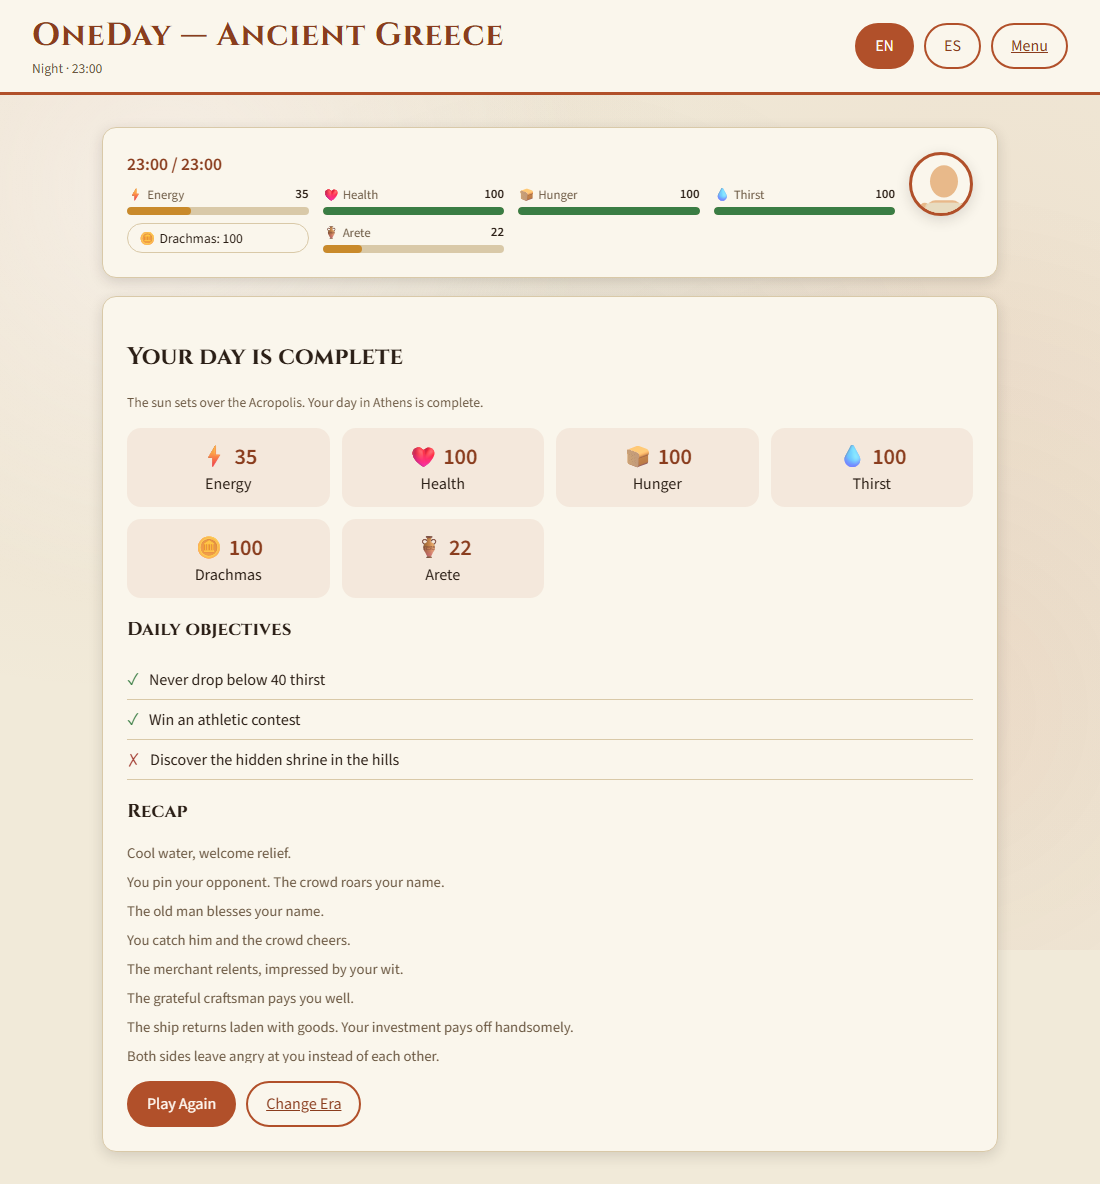
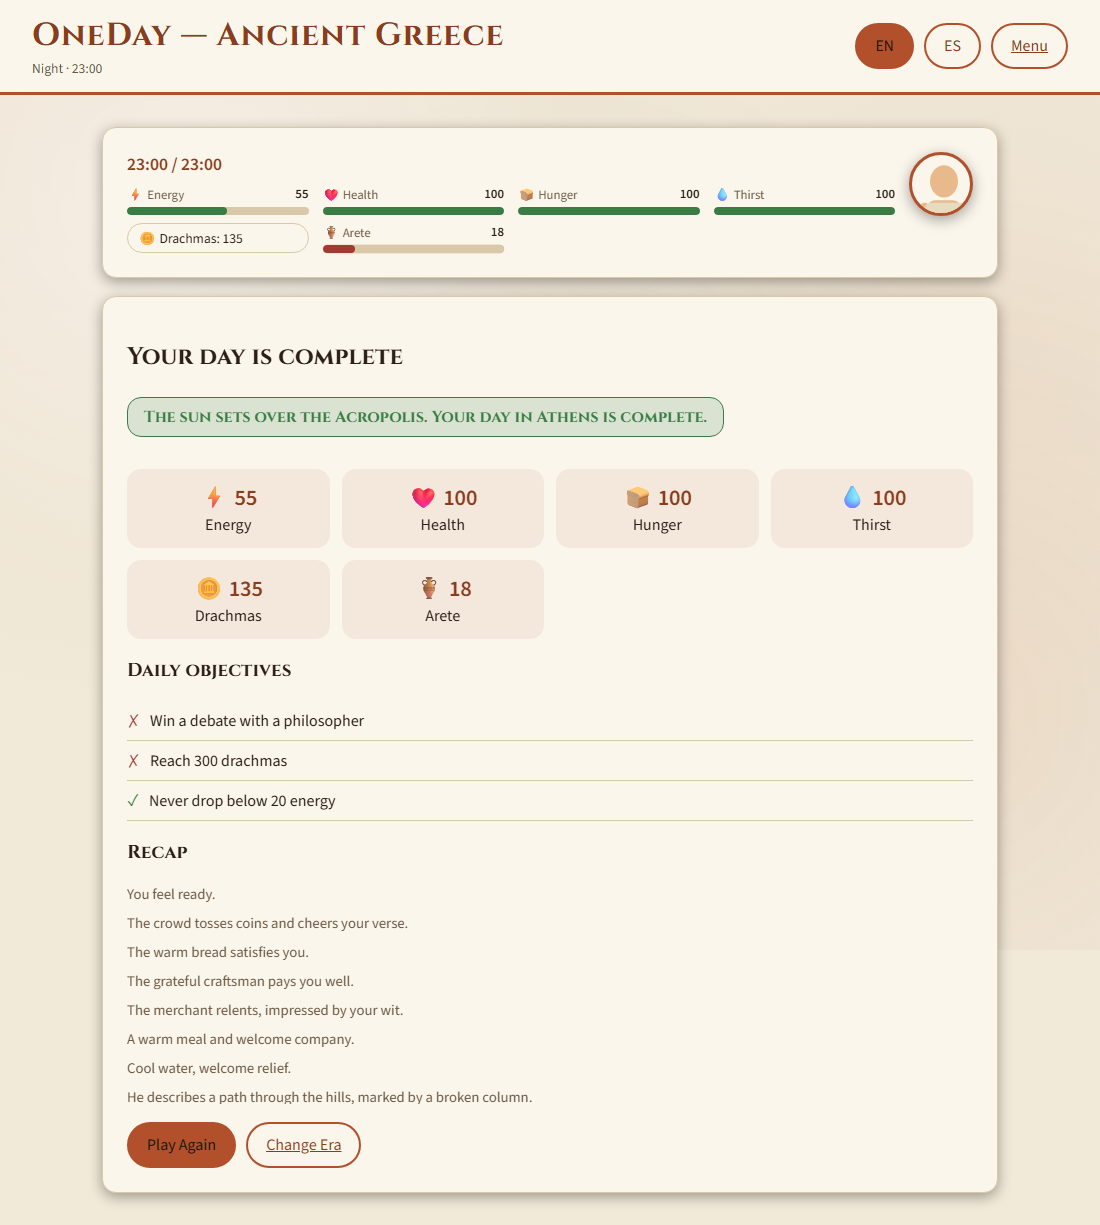
Fix home screen entrance perf, verify mobile, reward the summary screen
1. Entrance animation "looks broken" fix
The stagger/fade itself was never the problem (~120ms stagger, ~250ms
each, well under 400ms total) -- init() was awaiting all three eras'
theme-preview fetches before rendering the era grid AT ALL, so nothing
appeared until every fetch resolved. The grid now renders the instant
loadStrings() returns; each card's accent/texture preview fades in a
moment later via a new applyCardPreview() that updates that card's
custom properties in place, instead of re-rendering (and re-animating)
the whole grid a second time. Verified: ~200ms to first card, fully
settled well under 500ms, consistently across repeated runs.

2. Mobile
Checked all four screens (home, archetype, appearance, day loop) at a
390px/touch viewport. Everything already held up -- responsive grids,
flex-wrap, and the existing 640px character-layout breakpoint were
enough. No hover-dependent information: era cards already carry a
baseline accent glow, hover only intensifies it. No fixes needed here;
this item is a verification, not a change.

3. Summary screen reward treatment
It already inherited the active era's palette/fonts/texture for free
(applyEraTheme() runs once per game.html load), but had no sense of
payoff. Added: a bordered ending banner in success/danger colors
depending on which ending you got, in the era's own heading font, so
good vs. bad reads before you read a word; a staggered fade-in for
each objective in the checklist and for the final resource/score
[…]

diff --git a/game.html b/game.html
@@ -5,6 +5,7 @@
   <meta name="viewport" content="width=device-width, initial-scale=1.0">
   <meta name="description" content="OneDay: live one decisive day, one decision at a time.">
   <title>OneDay — Playing</title>
+  <link rel="icon" type="image/svg+xml" href="./favicon.svg">
   <link rel="preconnect" href="https://fonts.googleapis.com">
   <link rel="preconnect" href="https://fonts.gstatic.com" crossorigin>
   <link rel="stylesheet" href="https://fonts.googleapis.com/css2?family=Cinzel:wght@400;700&family=Source+Sans+3:wght@400;600&family=Alfa+Slab+One&family=PT+Sans:wght@400;700&family=Orbitron:wght@500;700&family=Rajdhani:wght@400;600&display=swap">
@@ -41,7 +42,7 @@
 
     <section id="summary-screen" class="panel" hidden>
       <h2 id="summary-heading"></h2>
-      <p id="summary-reason" class="app-subtitle"></p>
+      <p id="summary-reason"></p>
       <div class="score-grid" id="summary-score" hidden></div>
       <div class="summary-grid" id="summary-resources"></div>
       <h3 data-i18n="game.objectivesHeading"></h3>
@@ -342,18 +343,20 @@
       document.body.classList.remove('critical-alert');
 
       document.querySelector('#summary-heading').textContent = summaryData.alreadyPlayed ? t('daily.alreadyPlayedHeading') : t('game.summaryHeading');
-      document.querySelector('#summary-reason').textContent = summaryData.criticalKey ? localize(era.badEnding) : localize(era.goodEnding);
+      const reasonEl = document.querySelector('#summary-reason');
+      reasonEl.textContent = summaryData.criticalKey ? localize(era.badEnding) : localize(era.goodEnding);
+      reasonEl.className = `ending-banner ${summaryData.criticalKey ? 'bad' : 'good'}`;
 
-      document.querySelector('#summary-resources').innerHTML = Object.entries(era.resources).map(([key, config]) => `
-        <div class="summary-stat"><div class="value">${config.icon} ${summaryData.finalResources[key] ?? '–'}</div><div>${localize(config.label)}</div></div>
+      document.querySelector('#summary-resources').innerHTML = Object.entries(era.resources).map(([key, config], index) => `
+        <div class="summary-stat reveal" style="animation-delay:${index * 0.05}s"><div class="value">${config.icon} ${summaryData.finalResources[key] ?? '–'}</div><div>${localize(config.label)}</div></div>
       `).join('');
 
-      document.querySelector('#summary-objectives').innerHTML = summaryData.objectivesResults.map(entry => `
-        <li class="${entry.complete ? 'complete' : ''}"><span class="objective-mark">${entry.complete ? '✓' : '✗'}</span> ${localize(entry.objective.description)}</li>
+      document.querySelector('#summary-objectives').innerHTML = summaryData.objectivesResults.map((entry, index) => `
+        <li class="reveal ${entry.complete ? 'complete' : ''}" style="animation-delay:${0.15 + index * 0.12}s"><span class="objective-mark">${entry.complete ? '✓' : '✗'}</span> ${localize(entry.objective.description)}</li>
       `).join('');
 
-      document.querySelector('#summary-achievements').innerHTML = (summaryData.newlyUnlocked || []).map(achievement => `
-        <div class="achievement-toast">🏆 ${localize(achievement.title)} — ${localize(achievement.description)}</div>
+      document.querySelector('#summary-achievements').innerHTML = (summaryData.newlyUnlocked || []).map((achievement, index) => `
+        <div class="achievement-toast reveal" style="animation-delay:${0.5 + index * 0.15}s">🏆 ${localize(achievement.title)} — ${localize(achievement.description)}</div>
       `).join('');
 
       document.querySelector('#summary-log').innerHTML = summaryData.log
@@ -364,9 +367,9 @@
       if (summaryData.score) {
         scoreSection.hidden = false;
         scoreSection.innerHTML = `
-          <div class="score-stat"><div class="value">${summaryData.score.objectivesScore}</div><div>${t('daily.scoreObjectives')}</div></div>
-          <div class="score-stat"><div class="value">${summaryData.score.tiebreakScore}</div><div>${t('daily.scoreTiebreak')}</div></div>
-          <div class="score-stat total"><div class="value">${summaryData.score.total}</div><div>${t('daily.scoreTotal')}</div></div>
+          <div class="score-stat reveal" style="animation-delay:0s"><div class="value">${summaryData.score.objectivesScore}</div><div>${t('daily.scoreObjectives')}</div></div>
+          <div class="score-stat reveal" style="animation-delay:0.08s"><div class="value">${summaryData.score.tiebreakScore}</div><div>${t('daily.scoreTiebreak')}</div></div>
+          <div class="score-stat total reveal" style="animation-delay:0.16s"><div class="value">${summaryData.score.total}</div><div>${t('daily.scoreTotal')}</div></div>
         `;
       } else {
         scoreSection.hidden = true;

diff --git a/index.html b/index.html
@@ -4,12 +4,19 @@
   <meta charset="UTF-8">
   <meta name="viewport" content="width=device-width, initial-scale=1.0">
   <meta name="description" content="OneDay: pick an era, build a character, and live one decisive day.">
+  <meta property="og:type" content="website">
   <meta property="og:title" content="OneDay">
   <meta property="og:description" content="Pick an era, build a character, and live one decisive day of data-driven decision cards.">
   <meta property="og:image" content="https://lucasmarjua-ui.github.io/oneday/assets/social-preview.png">
+  <meta property="og:image:width" content="1200">
+  <meta property="og:image:height" content="630">
   <meta property="og:url" content="https://lucasmarjua-ui.github.io/oneday/">
   <meta name="twitter:card" content="summary_large_image">
+  <meta name="twitter:title" content="OneDay">
+  <meta name="twitter:description" content="Pick an era, build a character, and live one decisive day of data-driven decision cards.">
+  <meta name="twitter:image" content="https://lucasmarjua-ui.github.io/oneday/assets/social-preview.png">
   <title>OneDay</title>
+  <link rel="icon" type="image/svg+xml" href="./favicon.svg">
   <link rel="preconnect" href="https://fonts.googleapis.com">
   <link rel="preconnect" href="https://fonts.gstatic.com" crossorigin>
   <link rel="stylesheet" href="https://fonts.googleapis.com/css2?family=Fraunces:opsz,wght@9..144,600;9..144,700&family=Inter:wght@400;600&family=Cinzel:wght@400;700&family=Source+Sans+3:wght@400;600&family=Alfa+Slab+One&family=PT+Sans:wght@400;700&family=Orbitron:wght@500;700&family=Rajdhani:wght@400;600&display=swap">
@@ -165,8 +172,8 @@
         const playedToday = era.available && hasPlayedToday(getLocalDailyResult(era.id), today);
         const preview = eraThemePreviews[era.id];
         const cardStyle = preview
-          ? `--card-accent:${preview.colors.accent};--card-texture-image:${preview.textureImage || 'none'};--card-texture-size:${preview.textureSize || 'auto'};--texture-tint:${preview.colors.accent};--texture-tint-secondary:${preview.colors.accentSecondary || preview.colors.accent};animation-delay:${index * 0.1}s`
-          : `animation-delay:${index * 0.1}s`;
+          ? `--card-accent:${preview.colors.accent};--card-texture-image:${preview.textureImage || 'none'};--card-texture-size:${preview.textureSize || 'auto'};--texture-tint:${preview.colors.accent};--texture-tint-secondary:${preview.colors.accentSecondary || preview.colors.accent};animation-delay:${index * 0.06}s`
+          : `animation-delay:${index * 0.06}s`;
         return `
           <div class="era-card panel${era.available ? '' : ' unavailable'}" data-era="${era.id}" style="${cardStyle}">
             <div class="era-card-art"><span class="era-icon">${era.icon}</span></div>
@@ -365,11 +372,30 @@
     });
     document.querySelector('#profile-close').addEventListener('click', () => { profileModal.hidden = true; });
 
+    function applyCardPreview(eraId, preview) {
+      const card = eraGrid.querySelector(`.era-card[data-era="${eraId}"]`);
+      if (!card || !preview) return;
+      card.style.setProperty('--card-accent', preview.colors.accent);
+      card.style.setProperty('--card-texture-image', preview.textureImage || 'none');
+      card.style.setProperty('--card-texture-size', preview.textureSize || 'auto');
+      card.style.setProperty('--texture-tint', preview.colors.accent);
+      card.style.setProperty('--texture-tint-secondary', preview.colors.accentSecondary || preview.colors.accent);
+    }
+
     (async function init() {
-      const [, previews] = await Promise.all([loadStrings(), loadEraThemePreviews()]);
-      eraThemePreviews = previews;
+      // Render the grid the instant strings are ready -- don't make the
+      // first paint wait on the (non-critical) per-era accent/texture
+      // previews, which used to add several extra network round trips
+      // before any card appeared at all.
+      await loadStrings();
       applyStaticI18n();
       renderEraGrid();
+      loadEraThemePreviews()
+        .then(previews => {
+          eraThemePreviews = previews;
+          Object.entries(previews).forEach(([eraId, preview]) => applyCardPreview(eraId, preview));
+        })
+        .catch(error => console.warn('OneDay: could not load era theme previews', error));
     })();
   </script>
 </body>

diff --git a/shared/theme.css b/shared/theme.css
@@ -174,8 +174,8 @@ main {
   gap: 8px;
   border-radius: var(--radius);
   box-shadow: 0 0 0 1px color-mix(in srgb, var(--card-accent, var(--accent)) 30%, transparent), var(--shadow);
-  animation: cardRiseIn 0.5s ease both;
-  transition: transform 0.2s ease, box-shadow 0.2s ease;
+  animation: cardRiseIn 0.25s ease both;
+  transition: transform 0.2s ease, box-shadow 0.4s ease;
 }
 @keyframes cardRiseIn {
   from { opacity: 0; transform: translateY(16px); }
@@ -203,6 +203,7 @@ main {
   background-image: var(--card-texture-image, none);
   background-size: var(--card-texture-size, auto);
   border-bottom: 2px solid color-mix(in srgb, var(--card-accent, var(--accent)) 55%, transparent);
+  transition: background-color 0.4s ease, border-color 0.4s ease;
 }
 .era-card-art .era-icon { font-size: 2.8rem; filter: drop-shadow(0 2px 5px rgba(0, 0, 0, 0.35)); }
 .era-card-body { padding: 14px 16px 16px; display: flex; flex-direction: column; gap: 8px; flex: 1; }
@@ -411,6 +412,18 @@ main {
   margin-bottom: 10px;
 }
 
+.ending-banner {
+  display: inline-block;
+  margin: 4px 0 16px;
+  padding: 8px 16px;
+  border-radius: var(--radius);
+  font-weight: bold;
+  font-family: var(--font-heading);
+  border: 1px solid;
+}
+.ending-banner.good { background: color-mix(in srgb, var(--success) 16%, transparent); border-color: var(--success); color: var(--success); }
+.ending-banner.bad { background: color-mix(in srgb, var(--danger) 16%, transparent); border-color: var(--danger); color: var(--danger); }
+
 .summary-grid {
   display: grid;
   grid-template-columns: repeat(auto-fit, minmax(160px, 1fr));
@@ -419,6 +432,12 @@ main {
 }
 .summary-stat { background: color-mix(in srgb, var(--accent) 8%, transparent); border-radius: var(--radius); padding: 12px; text-align: center; }
 .summary-stat .value { font-size: 1.4rem; font-weight: bold; color: var(--accent-dark); }
+
+.reveal { animation: revealIn 0.4s ease both; }
+@keyframes revealIn {
+  from { opacity: 0; transform: translateY(8px); }
+  to { opacity: 1; transform: translateY(0); }
+}
 
 .daily-badge {
   display: inline-block;

diff --git a/README.md b/README.md
@@ -36,6 +36,8 @@ Then visit `http://localhost:8000`. (A `package.json` exists only to mark the co
 ```text
 index.html                     Era selection, archetype choice, character appearance, login, profile
 game.html                      The day loop: HUD, decision cards, outcomes, summary
+favicon.svg                    Brand-colored favicon (a handful of SVG shapes, no binary asset)
+assets/social-preview.png      Open Graph / Twitter card image (1200x630, built from the brand tokens)
 shared/
   firebase-config.js           Firebase SDK initialization (client config, not a secret)
   auth.js                      Username/password auth + localStorage <-> Firestore sync
@@ -133,6 +135,16 @@ Each era card previews its own world before you click into it: a small art band 
 
 A three-step "How it works" strip (choose your era → live the day → discover your ending) fills what used to be empty space below the cards, for a first-time visitor sizing up the game before committing to one.
 
+The entrance animation itself is short (a ~120ms stagger across three cards, ~250ms fade-and-rise each — under 400ms end to end). The "looks broken, takes seconds to appear" problem reported against an early version wasn't the animation — it was `init()` awaiting all three eras' theme-preview fetches *before rendering the grid at all*, so nothing appeared until every fetch resolved. The grid now renders the instant `loadStrings()` returns (usually well under 200ms — the previews aren't needed for that), and each card's accent/texture preview fades in a moment later as its own fetch resolves, via a small `applyCardPreview()` that just updates that card's custom properties in place rather than re-rendering (and re-animating) the grid.
+
+### End-of-day summary
+
+The summary screen already inherited the active era's palette, fonts and texture automatically — `applyEraTheme()` runs once for the whole page in `game.html`, so nothing extra was needed for that part. What it didn't have was any sense of payoff:
+
+- The ending line itself is now a bordered banner in success or danger colors depending on which ending you got (`.ending-banner.good` / `.bad`), set in the era's own heading font — the first thing that tells you, at a glance and before reading a word, whether this was a good day or not.
+- Each daily objective in the checklist reveals with a short staggered fade-in (`.reveal`, ~120ms apart) instead of all snapping in at once, so a run with several completed objectives reads as a small cascade of wins rather than a static list.
+- Final resource stats, and the Daily Challenge score breakdown when present, get the same staggered reveal.
+
 ### Game screen polish
 
 - **Character portrait**: a small circular crop of the same `renderCharacterSVG` output from character creation, pinned in the HUD for the whole day — you're no longer flying blind on what you look like once play starts.
@@ -208,6 +220,8 @@ Guest play — the whole game, minus accounts and the leaderboard — works with
 **Data-driven content, engine-agnostic of era.** All narrative content, resources, archetypes and character options live in per-era JSON. The engine only knows about generic concepts (resources, modifiers, time slots, flags), so a new era is pure content, no code changes.
 
 **Seeded RNG as a first-class dependency, not an afterthought.** Every random draw takes an explicit `rng` argument; nothing falls back to `Math.random()`. This keeps playthroughs reproducible for debugging today and makes the Daily Challenge mode (same seed for every player on a given day) a content/UI feature to add later, not an engine rewrite.
+
+**The favicon and social-preview image follow the same "no external art" rule.** `favicon.svg` is a handful of `<circle>`/`<line>` elements in brand brass on charcoal — no binary asset, no icon generator. `assets/social-preview.png` (the Open Graph/Twitter card image) is a small standalone HTML page built from the same brand tokens (Fraunces wordmark, the three-accent gradient blend, one chip per era) and rendered to a PNG at exactly 1200×630 — a design artifact kept alongside the source, not a one-off Photoshop export nobody can reproduce.
 
 ## Screenshots
 
